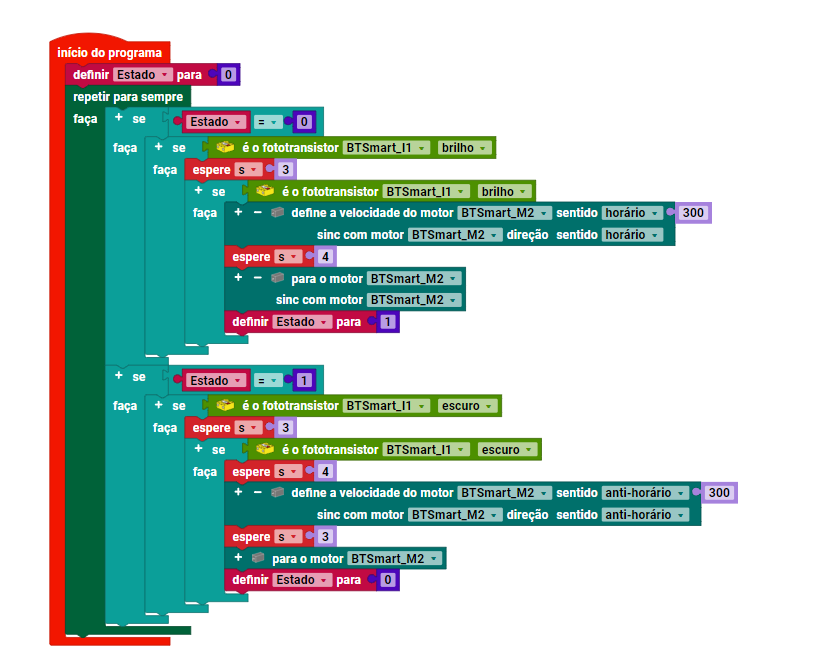
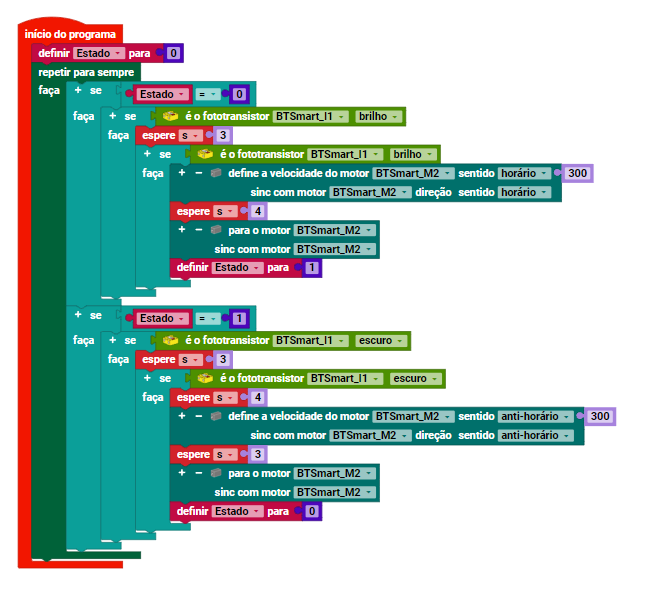
fix: ajustando imagem

diff --git a/README.md b/README.md
@@ -21,7 +21,7 @@ Caso o fotransistor identifique luminosidade, aguarda 3 segundos e verifica se a
 Caso o fotransistor não identifique luminosidade, aguarda 3 segundos e verifica se ainda não está incidindo luz. Caso positivo, o motor é acionado no sentido anti horário girando o eixo de rotação durante 4 segundos a uma velocidade de 300 em undiades definidas no código. Após o tempo, o motor é parado. 
 
 ## Código em programação gráfica
-![codigo](imagens/programação%20gráfica.png)
+![codigo](imagens/programação%20grafica.png)
 
 ## Componentes necessários
 
